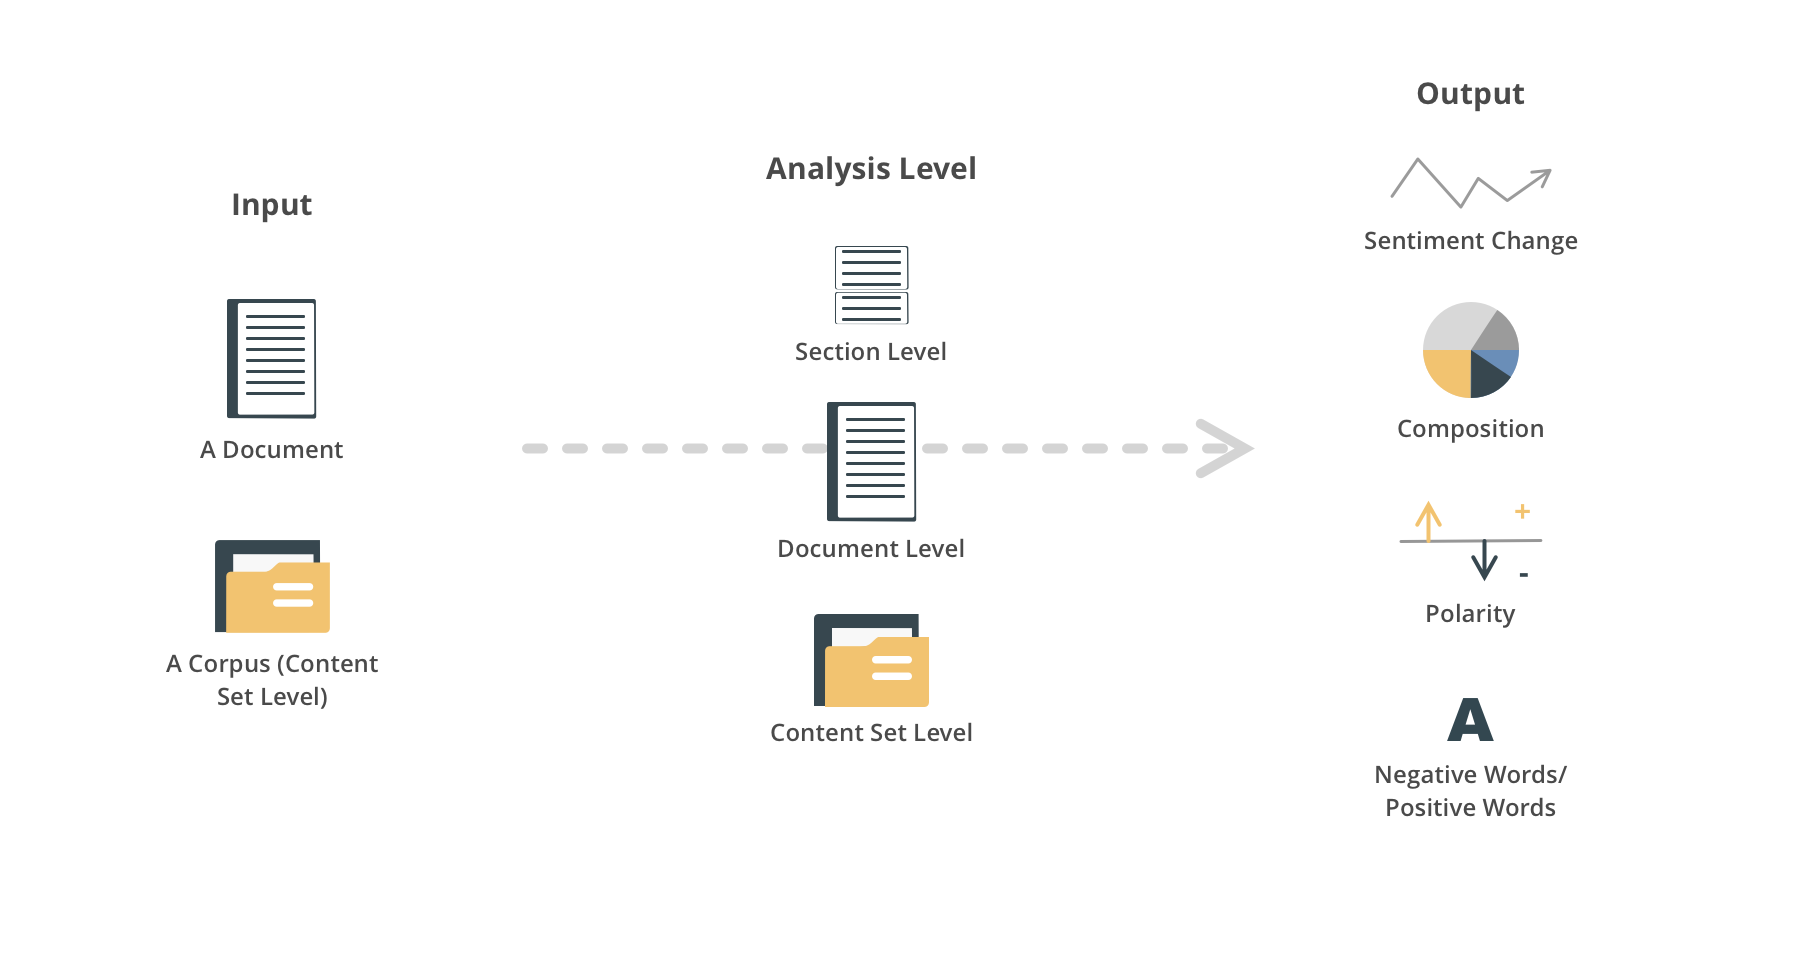
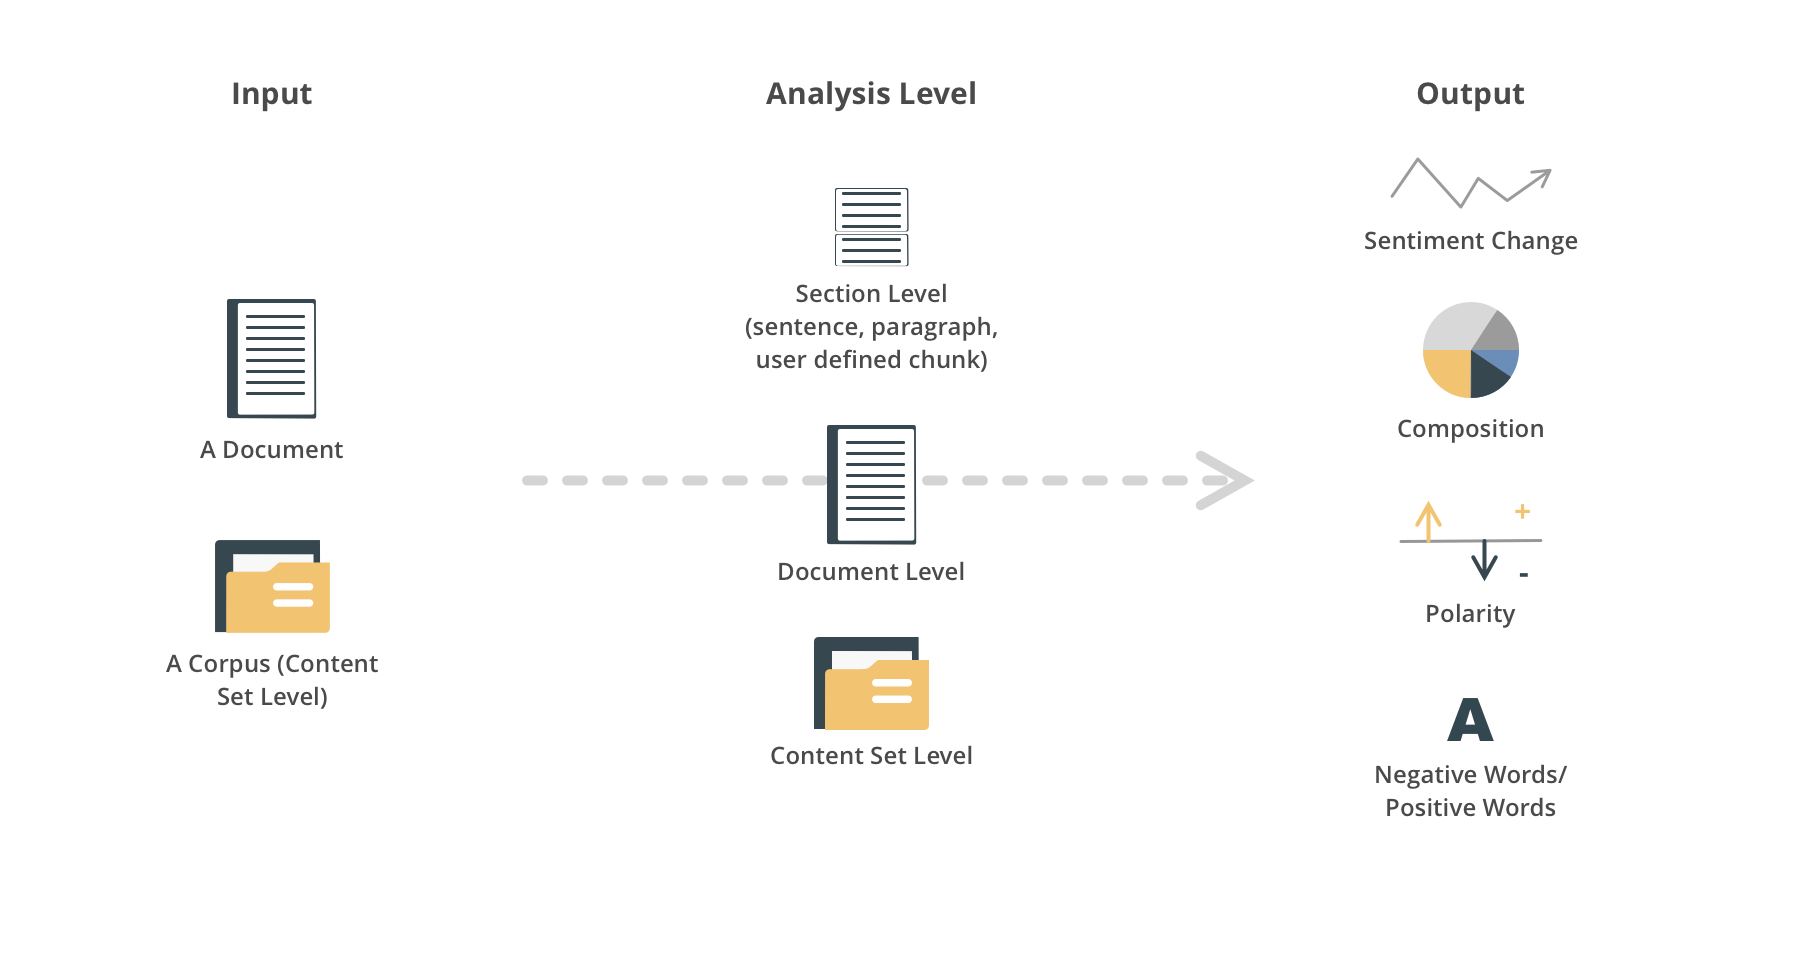
update dslab2

diff --git a/works/dslab.html b/works/dslab.html
@@ -80,6 +80,7 @@ gtag('config', 'UA-113651462-1');
                 <li><a href="#literature">Literature Review</a></li>
                 <li><a href="#persona">Persona</a></li>
                 <li><a href="#scenario">User Scenario</a></li>
+                <li><a href="#iteration">Major Iterations</a></li>
                 <li><a href="#final">Final Design</a></li>
                 <li><a href="#reflection">Reflection</a></li>
             </ul>
@@ -128,7 +129,7 @@ gtag('config', 'UA-113651462-1');
                 <ul>
                     <li>Text clean setting</li>
                     <li>Overall sentiment analysis of a corpus</li>
-                    <li>Sentiment analysis at the document/ paragraph/ customized chunks level</li>
+                    <li>Sentiment analysis of a document at section level</li>
                     <li>Sentiment analysis of sequenced documents</li>
                 </ul>
             </div>
@@ -208,19 +209,50 @@ gtag('config', 'UA-113651462-1');
                 </div>
             </div>
         </section>
+        <section id="iteration" class="section-detail-layout container">
+            <h2>Major Iterations</h2>
+            <p>I went through 2 rounds design evaluation with data visualization and digital humanity specialists major iterations, and several rounds evaluation with senior designer, PM and tech team.</p>
+            <h3>Show overall sentiment of a content set</h3>
+            <div class="row">
+                <img class="col-xs-12" src="../img/works/dslab/iteration1.png" alt="iteration1"/>
+                <div class="col-xs-12">
+                    <ul>
+                    <li><strong>Use only polarity as outputs</strong>, since there is technical limitation on analyzing the detailed emotions among a great amount of documents accurately.</li>
+                    <li><strong>Use bar chart instead of donut chart</strong>, since users care more about the amount. And bar chart can be great for comparison.</li>
+                    </ul>
+                </div>
+            </div>
+        <!-- </section> -->
+         <!-- <section class="section-detail-layout container"> -->
+            <div style="height:3em;"></div>
+            <h3>Show sentiment analysis results of a document at section level</h3>
+            <div class="row">
+                <img class="col-xs-12" src="../img/works/dslab/iteration4.png" alt="iteration2"/>
+                <div class="col-xs-12">
+                    <ul>
+                    <li><strong>Mark the document </strong> to connect analysis with the content and help scholar to understand the analysis, especially helpful for pedagogical purpose.</li>
+                    <li>Mark the document <strong>by section</strong> in stead of marking the keywords because of user scenario and technical limitation.</li>
+                    </ul>
+                </div>
+            </div>
+        </section>
+        
+        
+
+      
         <section id="final" class="section-detail-layout container">
             <h2>Final Design</h2>
-            <p class="sub-title"></p>
+            <h3>Understand sentiment of text at different levels with data visualization.</h3>
 
             <p class="sub-title">Challenge 1</p>
-            <h3>Discern the overall sentiment, when user creates a content set of a topic or event</h3>
+            <h3>Discern the overall sentiment of a content set of a topic or event.</h3>
             <div class="row">
                 <img class="col-xs-12" src="../img/works/dslab/overall.png" alt="overall"/>
                 <p class="col-xs-12">
                     Bar chart is used to show the <strong>number of documents fall into the five polarity levels</strong>, strongly negative, negative, neutral, positive, strongly positive. Click on the bar to view all documents within the content set that have the corresponding sentiment.
                 </p>
             </div>
-            <h4>Iterations</h4>
+           <!--  <h4>Iterations</h4>
             <div class="row gray-bg">
                 <img class="col-xs-12" src="../img/works/dslab/iteration1.png" alt="iteration1"/>
                 <div class="col-xs-12">
@@ -230,18 +262,18 @@ gtag('config', 'UA-113651462-1');
                     <li><strong>Change the visualization color palette</strong>, since red gives a more negative feeling and green more positive.</li>
                     </ul>
                 </div>
-            </div>
+            </div> -->
         </section>
         <section class="section-detail-layout container">
             <p class="sub-title">Challenge 2</p>
-            <h3>Know the sentiment overtime of a topic or event by analyzing a set of sequential documents</h3>
+            <h3>Know the sentiment overtime of a topic or event by analyzing a set of sequential documents.</h3>
             <div class="row">
                 <img class="col-xs-12" src="../img/works/dslab/change.png" alt="sequntial documents"/>
                 <p class="col-xs-12">
-                    The line chart can most efficiently show the sentiment change overtime. The top graph uses each document's polarity, and the bottom graph uses the average polarity of each decade to show the mainstream sentiment change of that topic/events.
+                    The line chart can most efficiently show the sentiment overtime. The top graph uses each document's polarity, and the bottom graph uses the average polarity of each decade to show the mainstream sentiment change of that topic/events.
                 </p>
             </div>
-            <h4>Iterations</h4>
+            <!-- <h4>Iterations</h4>
             <div class="row gray-bg">
                 <img class="col-xs-12" src="../img/works/dslab/iteration2.png" alt="iteration1"/>
                 <div class="col-xs-12">
@@ -251,35 +283,25 @@ gtag('config', 'UA-113651462-1');
                     <li><strong>Use the size of the dot to represent the number of documents</strong> in that decades in the third graph.</li>
                     </ul>
                 </div>
-            </div>
+            </div> -->
         </section>
         <section class="section-detail-layout container">
             <p class="sub-title">Challenge 3</p>
-            <h3>Discern the overall sentiment of the content set at paragraph (or other user defined chunks) level of each document</h3>
+            <h3>Discern the sentiment of each document in a content set at section (sentence, paragraph, or other user defined chunks) level.</h3>
             <div class="row">
                 <img class="col-xs-12" src="../img/works/dslab/doc.png" alt="document level"/>
                 <p class="col-xs-12">
-                    The visualization shows the overall sentiment distribution, key sentiment words and sentiment change of each document in the whole corpus. User can click each card to view the detail of the document.</strong>
+                    The visualization shows the overall sentiment distribution, key sentiment words and sentiment change analyzed by section of each document in the whole content set. User can click each card to view the detail of the document within content.</strong>
                 </p>
             </div>
-            <h4>Iterations</h4>
-            <div class="row gray-bg">
-                <img class="col-xs-12" src="../img/works/dslab/iteration3.png" alt="iteration1"/>
-                 <p class="col-xs-12">
-                    Use the combined bar and line chart instead. <strong>Knowing the sentiment by chunks</strong> can be more meaningful instead of general data while analyzing on document level.
-                </p>
-            </div>
-        </section>
-        <section class="section-detail-layout container">
-            <p class="sub-title">Challenge 4</p>
-            <h3>Discern the sentiment at paragraph(or sentence, and other user defined chunks) level of the document</h3>
+
             <div class="row">
                 <img class="col-xs-12" src="../img/works/dslab/overlay.png" alt="overall"/>
                 <p class="col-xs-12">
-                    On the document/article page, add a visualization summary panel under the existing DOC EXPLORER. The visualization contains three parts, <strong>the sentiment overlay, the overall sentiment of the document, and the sentiment development of the document.</strong> The sentiment overlay will highlight the document with corresponding colors by chunk. The overall sentiment shows the number of chunks of the polarity levels. The sentiment development has a zoom-in view of the sentiment development of the current page and a scope controller showing the development of the whole document and a sliding window which can direct to the specific page.
+                    On the document/article page, a visualization summary panel is added under the existing DOC EXPLORER. The visualization contains three parts, <strong>the sentiment overlay, the overall sentiment, and the sentiment development of the document.</strong> The sentiment overlay will highlight the document with corresponding colors by chunk. The overall sentiment shows the number of chunks of the polarity levels. The sentiment development has a zoom-in view of the sentiment development of the current page and a scope controller showing the development of the whole document and a sliding window which can direct to the specific page.
                 </p>
             </div>
-            <h4>Iterations</h4>
+            <!-- <h4>Iterations</h4>
             <div class="row gray-bg">
                 <img class="col-xs-12" src="../img/works/dslab/iteration4.png" alt="iteration1"/>
                 <div class="col-xs-12">
@@ -288,11 +310,11 @@ gtag('config', 'UA-113651462-1');
                     <li>But when the document is long, the side panel may not be perfect to fit the visualization.</li>
                     </ul>
                 </div>
-            </div>
+            </div> -->
         </section>
         <section class="section-detail-layout container">
-            <p class="sub-title">Challenge 5</p>
-            <h3>Set and adjust text clean parameters for sentiment analysis</h3>
+            <p class="sub-title">Challenge 4</p>
+            <h3>Set and adjust text clean parameters for sentiment analysis.</h3>
             <div class="row">
                 <img class="col-xs-12" src="../img/works/dslab/setting.png" alt="text clean setting"/>
                 <p class="col-xs-12">
@@ -306,17 +328,20 @@ gtag('config', 'UA-113651462-1');
             <h2>Reflection</h2>
             <div class="row">
                 <div class="col-md-12">
-                    <p>Designing and testing visualization is a little bit different. Since for people new to visualization they may not so sure about what's the most efficient way for them. So <b>at early stage, visualization and DH experts can provide much more valuable feedbacks</b> based on their experience. And when a relative complete design is created, <b>the major users who are new to the tools should be involved into evaluation</b> to test whether it's easier to learn and understand.</p>
-                    <p>While designing visualization, <b>design and development should be balanced</b>. Based on the tech stack the development team is using and development timeline, some visualization might not be able to delivery, so it's important to consider all these in the beginning. Some design might be able to realized easily based on the current tech stack, some design might need extra investment. For example, the sentiment overlay is not a common visualization and need extra effort for the development team to realize. But after evaluations with users, DH specialists, product team, development team and other related teams, it was a feature worth extra investment.</p>
-                    <p>If I had more time I'd like to do <b>more user evaluations</b> with DH students to mainly test whether <b>text clean settings and visualization are understandable</b>, how to better categories the visualization (group by analysis level or by context).</p>
+                    <h3>Designing and testing visualization is a little bit different. </h3>
+                    <p>Since for people new to visualization they may not so sure about what's the most efficient way for them. So <b>at early stage, visualization and DH experts can provide much more valuable feedbacks</b> based on their experience. And when a relative complete design is created, <b>the major users who are new to the tools should be involved into evaluation</b> to test whether it's easier to learn and understand.</p>
+                    <h3>Balancing design and development</h3> 
+                    <p>Based on the tech stack the development team is using and development timeline, some visualization might not be able to delivery, so it's important to consider all these in the beginning. Some design might be able to realized easily based on the current tech stack, some design might need extra investment. For example, the sentiment overlay is not a common visualization and need extra effort for the development team to realize. But after evaluations with users, DH specialists, product team, development team and other related teams, it was a feature worth extra investment.</p>
+                    <h3>If I had more time I'd like to do more user evaluations with DH students.</h3> 
+                    <p>Since the design concept is mainly tested with specialists, the next step is to test whether <b>text clean settings and visualization are understandable for pedagogical purpose</b>, and how to better categories the visualization (group by analysis level or by context).</p>
                 </div>
             </div>
         </section>
         <section class="container work-detail-footer">
             <div class="row">
                 <!-- <a class="col-xs-6" href="graphic.html"> &lt; Graphic Design</a> -->
-                <a class="col-xs-6" href="its.html"> &lt; Contextual Inquiry</a>
-                <a class="col-xs-6" href="eatjoy.html">EatJoy &gt;</a>
+                <a class="col-xs-6" href="eatjoy.html"> &lt; EatJoy</a>
+                <a class="col-xs-6" href="icfe.html"> In Context for Educators &gt;</a>
             </div>
         </section>
         <footer class="footer">

diff --git a/index.html b/index.html
@@ -137,32 +137,10 @@
 			<h1 class="section-layout theme-text"><strong>SELECTED<br>WORKS</strong></h1>
 
 			<div class="">
-				<div class="row dslab wow fadeInDown work-item">
-					<a href="works/dslab.html">
-						<div class="col-sm-6 caption">
-							<div class="work-title">
-								<p>Digital Scholar Lab Data Visualization</p>
-								<p>UX Intern @ Gale, Cengage Learning</p>
-								<h2>Assist digital humanity scholars to analyze the materials for research and pedagogy purpose</h2>
-								<div class="tags">
-									<span>Website</span>
-									<span>Education</span>
-									<span>Data Visualization</span>
-								</div>
-								<p>View Detail <i class="fa fa-long-arrow-right"></i></p>
-							</div>
-						</div>
-						<div class="col-sm-6 wow fadeInRight" data-wow-delay="0.1s">
-						<img src="img/dslabcover.png" alt="Digital Scholar Lab"/>
-						</div>
-					</a>
-				</div>
+				
 
 				<div class="row eatjoy wow fadeInDown work-item">
 					<a href="works/eatjoy.html">
-						<div class="col-sm-6 wow fadeInLeft" data-wow-delay="0.1s">
-						<img src="img/eatjoycover.png" alt="EatJoy Consumer-Health Tech Design"/>
-						</div>
 						<div class="col-sm-6 caption">
 							<div class="work-title">
 								<p>EatJoy </p>
@@ -173,6 +151,30 @@
 									<span>Consumer-Health Technology</span>
 									<span>UI Illustration</span>
 								</div>	
+								<p>View Detail <i class="fa fa-long-arrow-right"></i></p>
+							</div>
+						</div>
+						<div class="col-sm-6 wow fadeInRight" data-wow-delay="0.1s">
+						<img src="img/eatjoycover.png" alt="EatJoy Consumer-Health Tech Design"/>
+						</div>
+					</a>
+				</div>
+
+				<div class="row dslab wow fadeInDown work-item">
+					<a href="works/dslab.html">
+						<div class="col-sm-6 wow fadeInLeft" data-wow-delay="0.1s">
+						<img src="img/dslabcover.png" alt="Digital Scholar Lab"/>
+						</div>
+						<div class="col-sm-6 caption">
+							<div class="work-title">
+								<p>Digital Scholar Lab Data Visualization</p>
+								<p>UX Intern @ Gale, Cengage Learning</p>
+								<h2>Assist digital humanity scholars to analyze the materials for research and pedagogy purpose</h2>
+								<div class="tags">
+									<span>Website</span>
+									<span>Education</span>
+									<span>Data Visualization</span>
+								</div>
 								<p>View Detail <i class="fa fa-long-arrow-right"></i></p>
 							</div>
 						</div>

diff --git a/works/icfe.html b/works/icfe.html
@@ -317,7 +317,7 @@ gtag('config', 'UA-113651462-1');
         </section>
         <section class="container work-detail-footer">
             <div class="row">
-               <a class="col-xs-6" href="eatjoy.html">&lt; EatJoy</a>
+               <a class="col-xs-6" href="dslab.html">&lt; Digital Scholar Lab Visualization</a>
                 <!-- <a class="col-xs-6 disabled" href="graphic.html"> &lt; Graphic Design</a> -->
                 <!-- <a class="col-xs-6" href="dslab.html">DSLab Visualization &gt;</a> -->
                 <a class="col-xs-6" href="ava.html">AVA &gt;</a>

diff --git a/works/eatjoy.html b/works/eatjoy.html
@@ -372,8 +372,9 @@ gtag('config', 'UA-113651462-1');
 
         <section class="container work-detail-footer">
             <div class="row">
-                <a class="col-xs-6" href="dslab.html"> &lt; Digital Scholar Lab Visualization</a>
-                <a class="col-xs-6" href="icfe.html"> In Context for Educators &gt;</a>
+                <a class="col-xs-6" href="graphic.html"> &lt; Graphic Design</a>
+
+                <a class="col-xs-6" href="dslab.html">Digital Scholar Lab Visualization &gt;</a>
                 
             </div>
         </section>

diff --git a/works/graphic.html b/works/graphic.html
@@ -168,7 +168,7 @@ gtag('config', 'UA-113651462-1');
         <section class="container work-detail-footer">
             <div class="row">
                 <a class="col-xs-6" href="ava.html"> &lt; AVA</a>
-                <a class="col-xs-6" href="its.html">Contextual Inquiry &gt;</a>
+                <a class="col-xs-6" href="eatjoy.html">EatJoy &gt;</a>
                 <!-- <a class="col-xs-6" href="dslab.html">Digital Scholar Lab Visualization &gt;</a> -->
             </div>
         </section>
